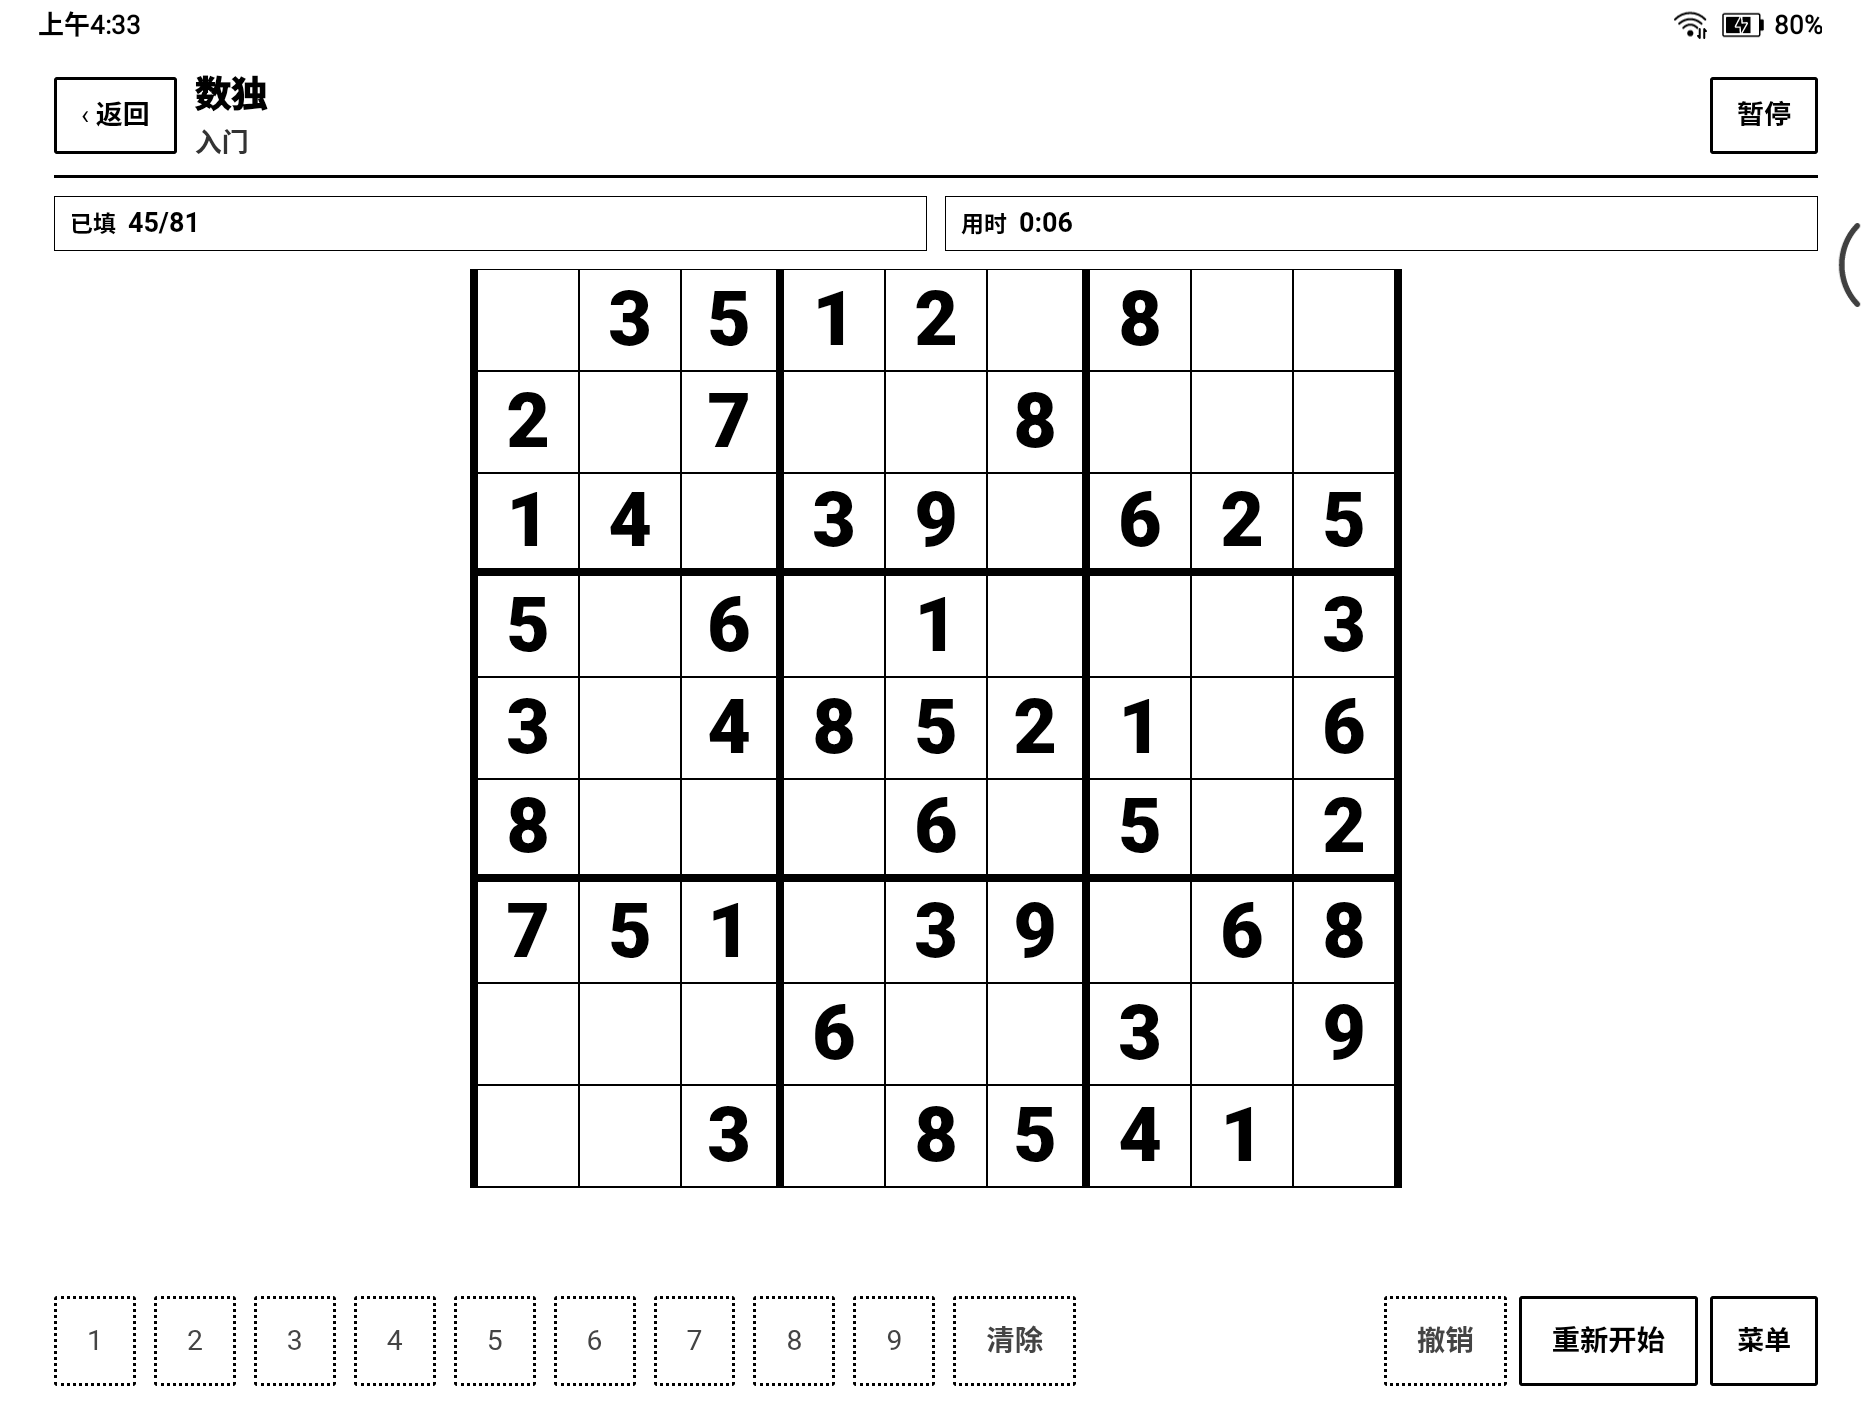
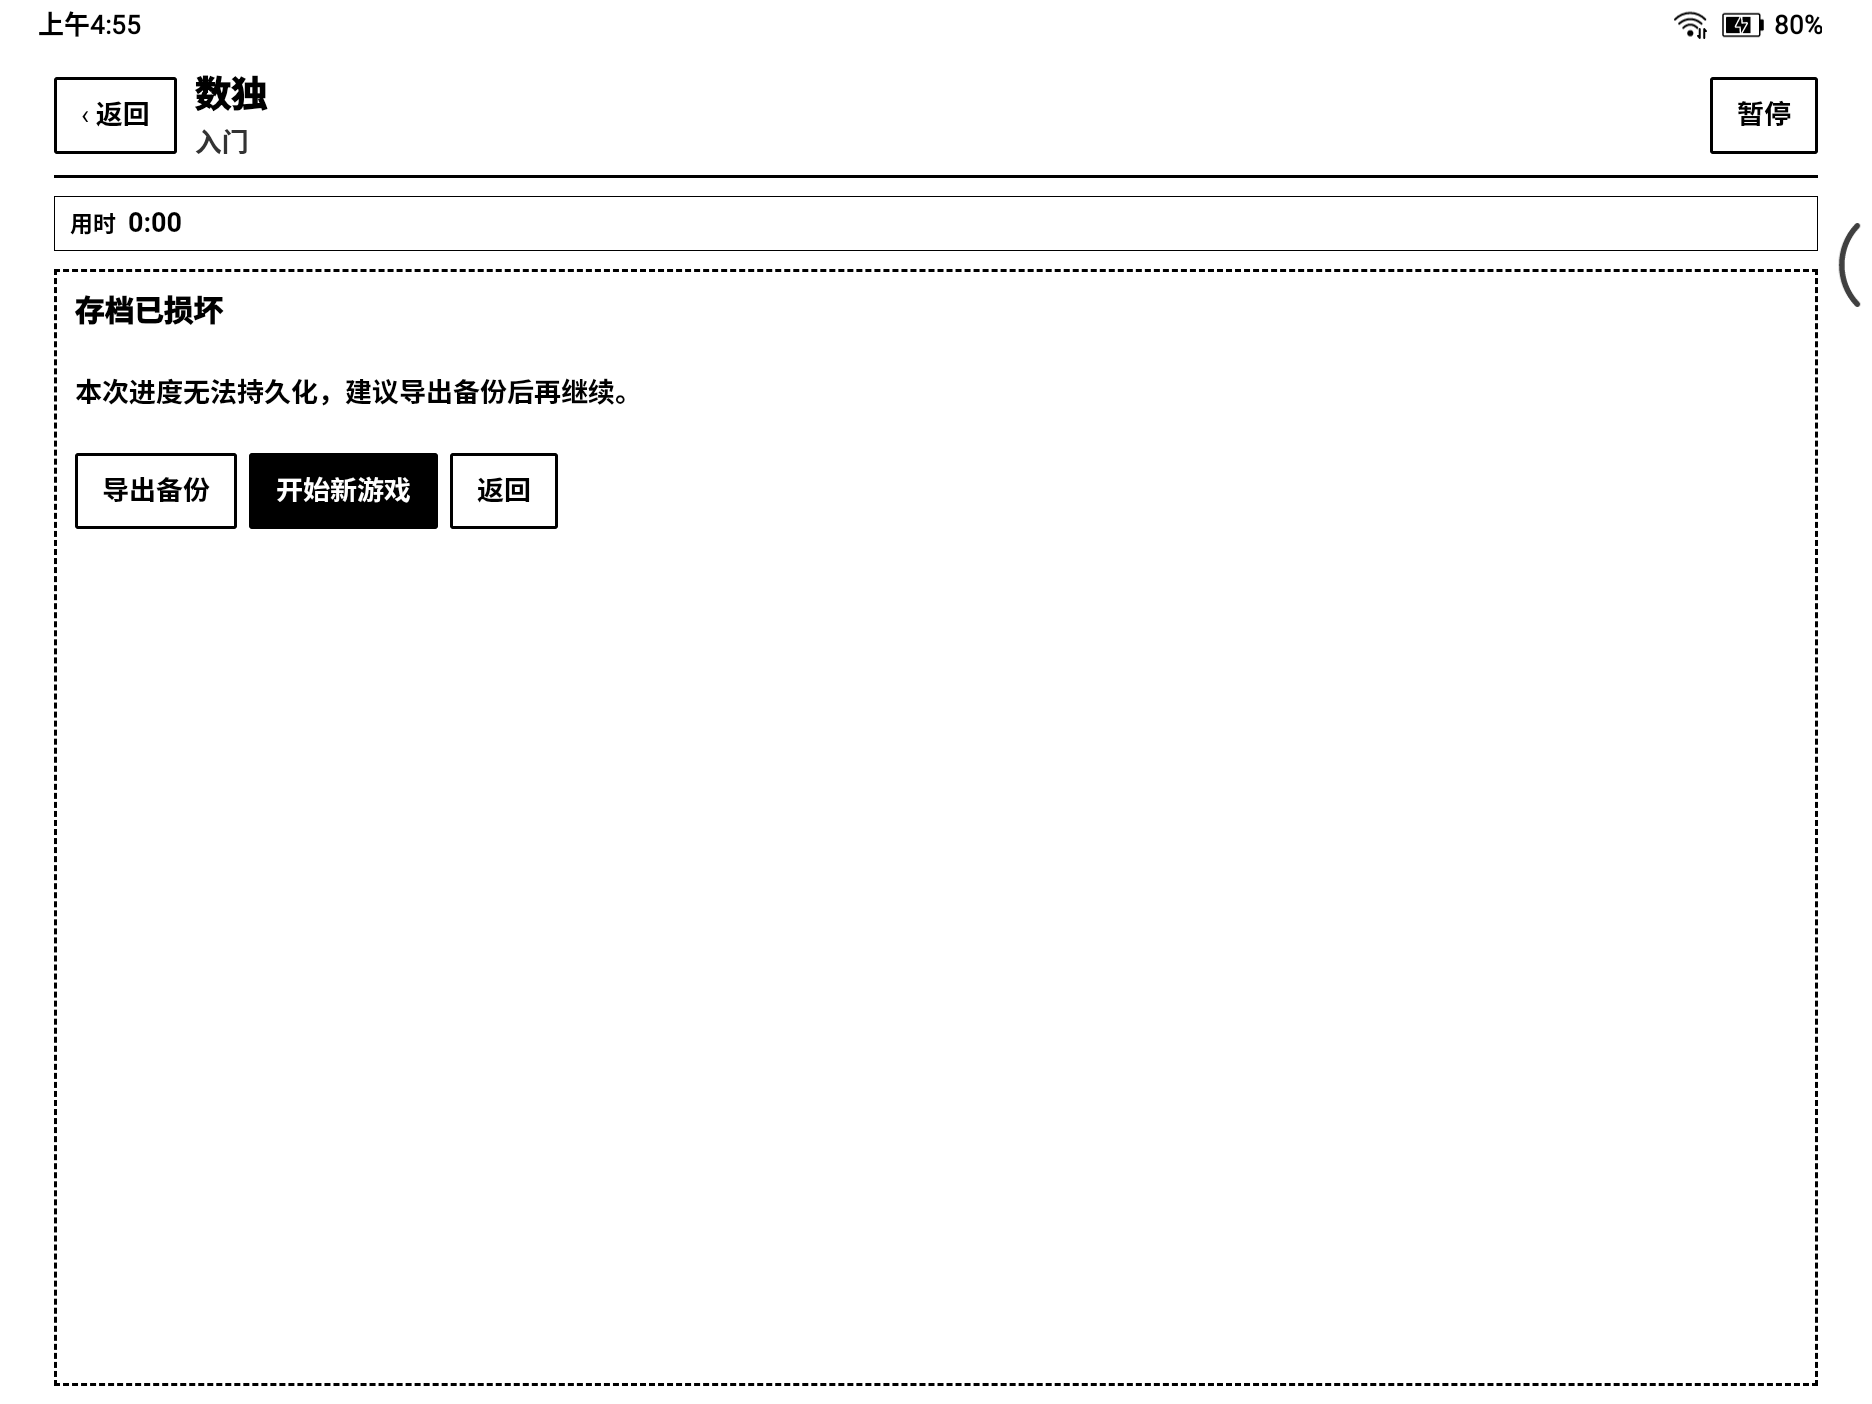
fix(layout): 棋盘上下外框被裁 —— 布局未计外框 + 棋盘区宽度塌缩反馈环
用户反馈「上下外框貌似被挡住了一部分」。真机实测是两个缺陷叠加：

1) computeBoardLayout 没算棋盘外框
   它用 min(可用宽/列, 可用高/行) 算格子，外框从 1~2px 加到 5px 后棋盘比可用区高 10px，
   被 overflow:hidden 上下各裁 5px。
   → 改为 computeBoardLayout(..., frame = BOARD_FRAME_PX) 先扣两侧外框；
     新增导出 BOARD_FRAME_PX 作为单一来源，Board 的内联 borderWidth 同源，
     避免「按 3px 算、实际画 5px」。

2) .eink-board-area 上的 margin: 0 auto 让棋盘区宽度塌缩（更隐蔽）
   flex 项上的 auto 外边距会使该项**不被 align-items: stretch 拉伸**，宽度退化为内容宽度；
   而内容（棋盘）又是按实测宽度反算格子的 → 反馈环：首帧测到小值 → 格子取 minCell 24
   → 棋盘 178px → 区域跟着 178px → 永久锁死。真机实测 X2 容器 1200px 而棋盘区仅 177px。
   → 删掉 margin: 0 auto（居中由内部 justify-content 负责）
   → .eink-screen--game 显式 align-items: stretch（不依赖 WebView 对 normal 的处理）
   → 实测值 < 120px 视为无效测量，回退推算值（防瞬态 0 测量锁死）

新增测试（packages/core/test/layout.test.ts）
- 多形状 × 多可用区：断言 boardWidth/boardHeight（含外框）都不超过可用区
- 外框越粗格子越小，且总宽 = 格子×列 + 2×外框

实测（修复后）
- P6Plus：数独 406×406@44、扫雷 410×410@25、2048 335×335@65、推箱子 410×290@40，四边均有留白
- Note X2：棋盘区 177 → 1176px；扫雷 612×612@67、2048 509×509@125、推箱子 506×506@71
- npm run check 全绿；截图 docs/screens/game-sudoku-portrait.png（推箱子完整外框）

文档记入教训：「按实测尺寸反算内容尺寸」的组件，容器尺寸必须由父级决定，
否则会形成反馈环并锁死在极值；flex 项上的 auto 外边距是常见的「悄悄关闭 stretch」写法。

diff --git a/packages/ui/src/screens/GameScreen.tsx b/packages/ui/src/screens/GameScreen.tsx
@@ -4,7 +4,14 @@
  * 结果页不覆盖棋盘（「查看过程不改变结果」）：过关面板与棋盘同时可见。
  */
 import { useLayoutEffect, useMemo, useRef, useState, type ReactNode } from 'react'
-import { computeBoardLayout, computeRootLayout, type CellKind, type MoveDir, type SaveEnvelope } from '@eink/core'
+import {
+  BOARD_FRAME_PX,
+  computeBoardLayout,
+  computeRootLayout,
+  type CellKind,
+  type MoveDir,
+  type SaveEnvelope,
+} from '@eink/core'
 import {
   ActionButton,
   Board,
@@ -84,12 +91,18 @@ export function GameScreen({ entry, difficulty, onExit, onCommitted }: GameScree
   const statCount = session.view.stats.length + (settings.timer ? 1 : 0)
   const statColumns = viewport.width > viewport.height ? statCount : Math.min(3, statCount)
 
-  const boardArea = boardBox ?? root.boardArea
+  /**
+   * 实测尺寸明显不合理（例如首帧测到 0 或几像素）时忽略它，回退到推算值。
+   * 否则「格子由实测反算」会与真实布局形成反馈环，把棋盘永久锁在 minCell 最小尺寸。
+   */
+  const measuredUsable =
+    boardBox !== null && boardBox.width >= 120 && boardBox.height >= 120 ? boardBox : null
+  const boardArea = measuredUsable ?? root.boardArea
 
   const boardLayout = useMemo(() => {
     const board = session.view.board
     if (!board) return null
-    return computeBoardLayout(boardArea, board.cols, board.rows, layoutConfig)
+    return computeBoardLayout(boardArea, board.cols, board.rows, layoutConfig, BOARD_FRAME_PX)
   }, [session.view.board, boardArea, layoutConfig])
 
   /**

diff --git a/packages/core/src/layout.ts b/packages/core/src/layout.ts
@@ -106,18 +106,32 @@ export function computeRootLayout(
   }
 }
 
+/**
+ * 棋盘外框宽度（px）。**单一来源**：布局计算与 CSS 都用它 ——
+ * 两处若不一致，棋盘就会比可用区大出一圈而被 overflow:hidden 裁掉上下边框。
+ */
+export const BOARD_FRAME_PX = 5
+
 export function computeBoardLayout(
   area: { width: number; height: number },
   cols: number,
   rows: number,
   config: LayoutConfig = DEFAULT_LAYOUT,
+  /**
+   * 棋盘外框宽度（单边）。必须在算格子前**先从可用区里扣掉两侧外框**，
+   * 否则 boardWidth/boardHeight 会比可用区多出 2×frame，上下（或左右）被裁掉。
+   */
+  frame: number = BOARD_FRAME_PX,
 ): BoardLayout {
   const safeCols = Math.max(1, Math.floor(cols))
   const safeRows = Math.max(1, Math.floor(rows))
-  const fit = Math.min(area.width / safeCols, area.height / safeRows)
+  const safeFrame = Math.max(0, frame)
+  const innerWidth = Math.max(1, area.width - safeFrame * 2)
+  const innerHeight = Math.max(1, area.height - safeFrame * 2)
+  const fit = Math.min(innerWidth / safeCols, innerHeight / safeRows)
   const cell = Math.max(config.minCell, Math.floor(fit))
-  const boardWidth = cell * safeCols
-  const boardHeight = cell * safeRows
+  const boardWidth = cell * safeCols + safeFrame * 2
+  const boardHeight = cell * safeRows + safeFrame * 2
   return {
     cols: safeCols,
     rows: safeRows,

diff --git a/packages/core/test/layout.test.ts b/packages/core/test/layout.test.ts
@@ -100,4 +100,35 @@ describe('棋盘布局不变量', () => {
     expect(board.cell).toBeGreaterThanOrEqual(DEFAULT_LAYOUT.minCell)
     expect(board.boardWidth).toBeGreaterThan(0)
   })
+
+  it('棋盘含外框也必须放得进可用区（否则上下或左右边框会被 overflow:hidden 裁掉）', () => {
+    // 真机实测的游戏页棋盘区尺寸（P6Plus 竖屏 / Note X2 横屏）
+    const areas = [
+      { width: 403, height: 420 },
+      { width: 1100, height: 600 },
+    ]
+    const shapes: Array<[number, number]> = [
+      [4, 4],
+      [9, 9],
+      [12, 12],
+      [16, 16],
+      [11, 9],
+    ]
+    for (const area of areas) {
+      for (const [cols, rows] of shapes) {
+        const board = computeBoardLayout(area, cols, rows)
+        expect(board.boardWidth).toBeLessThanOrEqual(area.width)
+        expect(board.boardHeight).toBeLessThanOrEqual(area.height)
+      }
+    }
+  })
+
+  it('外框宽度计入棋盘总尺寸：同样的可用区，外框越粗格子越小', () => {
+    const area = { width: 403, height: 403 }
+    const thin = computeBoardLayout(area, 9, 9, DEFAULT_LAYOUT, 1)
+    const thick = computeBoardLayout(area, 9, 9, DEFAULT_LAYOUT, 5)
+    expect(thick.cell).toBeLessThan(thin.cell)
+    expect(thick.boardWidth).toBe(thick.cell * 9 + 10)
+    expect(thick.boardWidth).toBeLessThanOrEqual(area.width)
+  })
 })

diff --git a/packages/ui/src/styles.css b/packages/ui/src/styles.css
@@ -376,6 +376,15 @@ body {
   flex: 0 0 auto;
   height: 100vh;
   overflow: hidden;
+  display: flex;
+  flex-direction: column;
+  /*
+   * 显式 stretch，不能依赖默认的 align-items: normal。
+   * 棋盘区是「按实测盒子反算格子」的，如果它的宽度由棋盘内容决定，就会形成反馈环：
+   * 首帧测到 0 → 格子取 minCell 24 → 棋盘 178px → 区域跟着变 178px → 永远锁死在最小尺寸。
+   * Android WebView 上实测就是这样（Note X2：区域 177px，而容器有 1200px）。
+   */
+  align-items: stretch;
 }
 
 .eink-screen--game > * {
@@ -396,11 +405,18 @@ body {
   overflow-y: auto;
 }
 
+/*
+ * 棋盘区必须**撑满容器宽度**，居中交给内部 flex 的 justify-content。
+ *
+ * 这里曾经写着 `margin: 0 auto` —— 在 column flex 容器里，auto 外边距会让该项
+ * **不再被 stretch**，宽度退化成内容宽度；而内容（棋盘）又是「按实测宽度反算格子」的，
+ * 于是形成反馈环：首帧测到小值 → 格子取 minCell 24 → 棋盘 178px → 区域跟着 178px → 永久锁死。
+ * Android WebView 上实测：容器 1200px，区域只有 177px，格子卡在下限。
+ */
 .eink-board-area {
   display: flex;
   align-items: center;
   justify-content: center;
-  margin: 0 auto;
 }
 
 /*

diff --git a/packages/ui/src/components.tsx b/packages/ui/src/components.tsx
@@ -6,7 +6,7 @@
  * - 计时等每秒变化的内容隔离在小组件里，不驱动整页重绘。
  */
 import { useEffect, useState, type CSSProperties, type ReactNode } from 'react'
-import type { BoardView, CellKind, ControlSpec, MoveDir } from '@eink/core'
+import { BOARD_FRAME_PX, type BoardView, type CellKind, type ControlSpec, type MoveDir } from '@eink/core'
 import { useUi } from './contexts.js'
 
 export interface ActionButtonProps {
@@ -259,6 +259,8 @@ export function Board({
   const style = {
     gridTemplateColumns: `repeat(${board.cols}, ${cell}px)`,
     gridTemplateRows: `repeat(${board.rows}, ${cell}px)`,
+    // 外框宽度与 computeBoardLayout 用同一个常量，避免「布局按 3px 算、实际画 5px」而裁掉边框
+    borderWidth: `${BOARD_FRAME_PX}px`,
     // 供 CSS 计算格子内符号的字号
     ['--cell' as string]: `${cell}px`,
   } as CSSProperties

diff --git a/docs/eink-guidelines.md b/docs/eink-guidelines.md
@@ -346,3 +346,42 @@
 
 > 1px 细线在 dpr 1.875 的机器上会被吸附成**单个设备像素**（实测 1px → 0.53 CSS px），
 > 竖线在面板上很淡。当前是用户确认的取值；若觉得太淡，**2px 是「看得见的最细」起点**。
+
+
+## 棋盘被裁掉上下边框：两个叠加的布局缺陷
+
+用户反馈「上下外框貌似被挡住了一部分」。真机实测后确认是两个独立缺陷叠加：
+
+### 1. 布局计算没算外框
+
+`computeBoardLayout` 用 `min(可用宽/列数, 可用高/行数)` 算格子，**完全没扣掉棋盘外框**。
+外框从 1~2px 加到 5px 后，棋盘实际比可用区高 10px，被容器 `overflow: hidden` 上下各裁掉 5px。
+修复：`computeBoardLayout(area, cols, rows, config, frame = BOARD_FRAME_PX)` 先扣两侧外框；
+`BOARD_FRAME_PX` 成为**单一来源**，`Board` 的内联 `borderWidth` 也用它，避免「按 3px 算、实际画 5px」。
+
+### 2. `.eink-board-area { margin: 0 auto }` 让棋盘区宽度塌缩（更隐蔽）
+
+棋盘区是 column flex 容器的一项，而 **flex 项上的 `auto` 外边距会使其不被 `align-items: stretch` 拉伸**，
+宽度退化为内容宽度。偏偏内容（棋盘）又是「按实测宽度反算格子」的，于是形成反馈环：
+
+> 首帧测到小值 → 格子取 `minCell` 24 → 棋盘 178px → 区域跟着变 178px → **永久锁死在最小尺寸**
+
+真机实测（Note X2，容器 1200px）：棋盘区只有 **177px**，格子卡在下限 24px，棋盘 177px。
+P6Plus 上因为首帧值恰好较大才没暴露。
+
+三处修复：
+- 删掉 `.eink-board-area` 的 `margin: 0 auto`（居中已由内部 `justify-content: center` 负责）
+- `.eink-screen--game` 显式写 `align-items: stretch`（不依赖 WebView 对 `normal` 的处理）
+- 实测值小于 120px 时视为无效测量，回退到推算值（防瞬态 0 测量锁死）
+
+修复后实测（四款游戏、两种设备）：
+
+| 设备 | 数独 | 扫雷(挑战 16×16) | 2048(挑战 5×5) | 推箱子 |
+|---|---|---|---|---|
+| P6Plus 439×847 | 406×406 @44px | 410×410 @25px | 335×335 @65px | 410×290 @40px |
+| Note X2 1248×903 | — | 612×612 @67px | 509×509 @125px | 506×506 @71px |
+
+P6Plus 上四款棋盘**四边均有留白**（无任何裁切）；X2 的棋盘区宽度从 177 → **1176px**。
+
+> 教训：**「按实测尺寸反算内容尺寸」的组件，其容器尺寸必须由父级决定，不能由内容决定**，
+> 否则会形成反馈环并锁死在极值。flex 项上的 `auto` 外边距正是常见的"悄悄关闭 stretch"的写法。
